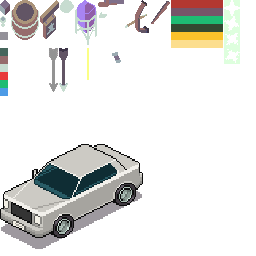
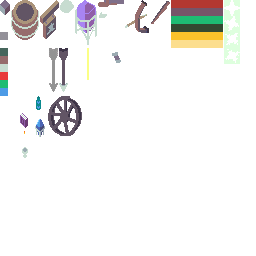
0.6.714

diff --git a/gamestream_flutter/lib/render/renderer_nodes.dart b/gamestream_flutter/lib/render/renderer_nodes.dart
@@ -64,14 +64,21 @@ class RendererNodes extends Renderer {
   static var nodeVisibility = GameNodes.nodesVisible;
 
   // GETTERS
-  // double get currentNodeRenderX => (currentNodeRow - currentNodeColumn) * Node_Size_Half;
   static double get currentNodeRenderY => GameConvert.rowColumnZToRenderY(row, column, currentNodeZ);
 
   static int get currentNodeShade => nodeShades[currentNodeIndex];
   static int get currentNodeColor => (currentNodeVisibilityOpaque ? GameLighting.values : GameLighting.values_transparent)[currentNodeShade];
+
+  static int getNodeColor(int index) {
+    if (index < 0) return GameLighting.values[4];
+    if (index >= GameNodes.nodesTotal) return GameLighting.values[4];
+    return (nodeVisibility[index] == Visibility.Opaque ? GameLighting.values : GameLighting
+        .values_transparent)[index];
+  }
+
+
   static int get currentNodeOrientation => nodeOrientations[currentNodeIndex];
   static int get currentNodeVisibility => nodeVisibility[currentNodeIndex];
-  // int get currentNodeWind => GameNodes.nodesWind[currentNodeIndex];
   static int get currentNodeWind => ServerState.windTypeAmbient.value;
 
   static bool get currentNodeVisible => currentNodeVisibility == Visibility.Invisible;
@@ -978,7 +985,7 @@ class RendererNodes extends Renderer {
   }){
     onscreenNodes++;
     final f = Engine.bufferIndex << 2;
-    bufferClr[Engine.bufferIndex] = currentNodeVisibility == Visibility.Opaque ? currentNodeColor : GameLighting.Transparent;
+    bufferClr[Engine.bufferIndex] = RendererNodes.currentNodeColor;
     bufferSrc[f] = srcX;
     bufferSrc[f + 1] = srcY;
     bufferSrc[f + 2] = srcX + GameConstants.Sprite_Width;
@@ -1011,7 +1018,7 @@ class RendererNodes extends Renderer {
   }
 
   static int getRenderLayerColor(int layers) =>
-      GameLighting.values[getRenderLayerShade(layers)];
+      getNodeColor(layers);
 
   static int getRenderLayerShade(int layers){
     final index = currentNodeIndex + (layers * GameNodes.nodesArea);

diff --git a/bleed-server/lib/src/game_types/game_survival.dart b/bleed-server/lib/src/game_types/game_survival.dart
@@ -95,7 +95,7 @@ class GameSurvival extends Game {
     }
   }
 
-  void spawnRandomGameObjectAtPosition(Position3 value){
+  void spawnRandomGameObjectAtPosition(Position3 value) {
     final itemType = getRandomItemType();
     if (itemType == ItemType.Empty) return;
     spawnGameObjectItemAtPosition(
@@ -112,7 +112,7 @@ class GameSurvival extends Game {
   }
 
   @override
-  void onPlayerInteractedWithGameObject(Player player, GameObject gameObject){
+  void onPlayerInteractedWithGameObject(Player player, GameObject gameObject) {
     player.setStoreItems(const [
         ItemType.Weapon_Thrown_Grenade,
         ItemType.Weapon_Handgun_Flint_Lock_Old,
@@ -131,8 +131,8 @@ class GameSurvival extends Game {
 
   @override
   void customOnHitApplied(Character src, Collider target) {
-     if (target is GameObject){
-        if (target.type == ItemType.GameObjects_Barrel){
+     if (target is GameObject) {
+        if (target.type == ItemType.GameObjects_Barrel) {
            deactivateGameObject(target);
            spawnRandomGameObjectAtPosition(target);
            final x = target.x;
@@ -142,6 +142,7 @@ class GameSurvival extends Game {
                spawnGameObject(x: x, y: y, z: z, type: ItemType.GameObjects_Barrel)
                 ..physical = true
                 ..collidable = true
+                ..team = TeamType.Alone
                 ..moveOnCollision = false;
            });
         }

diff --git a/gamestream_flutter/lib/game_atlas.dart b/gamestream_flutter/lib/game_atlas.dart
@@ -6,6 +6,7 @@ class AtlasItems {
   static double getSrcX(int itemType) => const <int, double> {
       ItemType.GameObjects_Car: 0,
       ItemType.GameObjects_Crystal: 75,
+      ItemType.GameObjects_Candle: 23,
       ItemType.GameObjects_Barrel: 11,
       ItemType.GameObjects_Cup: 0,
       ItemType.GameObjects_Tavern_Sign: 40,
@@ -68,6 +69,7 @@ class AtlasItems {
   static double getSrcY(int itemType) => const <int, double> {
     ItemType.GameObjects_Car: 144,
     ItemType.GameObjects_Crystal: 0,
+    ItemType.GameObjects_Candle: 131,
     ItemType.GameObjects_Barrel: 0,
     ItemType.GameObjects_Cup: 0,
     ItemType.GameObjects_Tavern_Sign: 0,
@@ -126,6 +128,7 @@ class AtlasItems {
     ItemType.GameObjects_Barrel: 28,
     ItemType.GameObjects_Cup: 6,
     ItemType.GameObjects_Tavern_Sign: 19,
+    ItemType.GameObjects_Candle: 3,
     ItemType.GameObjects_Grenade: 8,
     ItemType.Weapon_Rifle_Sniper: 48,
     ItemType.Weapon_Flamethrower: 64,
@@ -137,6 +140,7 @@ class AtlasItems {
     ItemType.GameObjects_Car: 105,
     ItemType.GameObjects_Crystal: 45,
     ItemType.GameObjects_Barrel: 40,
+    ItemType.GameObjects_Candle: 10,
     ItemType.GameObjects_Cup: 11,
     ItemType.GameObjects_Tavern_Sign: 39,
     ItemType.GameObjects_Grenade: 8,

diff --git a/gamestream_flutter/lib/src/editor/src/editor_ui.dart b/gamestream_flutter/lib/src/editor/src/editor_ui.dart
@@ -371,7 +371,8 @@ class EditorUI {
                   action: () {
                     GameNetwork.sendClientRequestEdit(
                         EditRequest.Spawn_Zombie,
-                        GameEditor.nodeSelectedIndex.value);
+                        GameEditor.nodeSelectedIndex.value,
+                    );
                   }),
               Column(
                 mainAxisAlignment: MainAxisAlignment.start,

diff --git a/gamestream_flutter/lib/game_lighting.dart b/gamestream_flutter/lib/game_lighting.dart
@@ -83,7 +83,8 @@ class GameLighting {
         linerInterpolation(start_hue, end_hue, t),
         linerInterpolation(start_saturation, end_saturation, t),
         linerInterpolation(start_value, end_value, t),
-        linerInterpolation(start_alpha, end_alpha, t) * 0.5,
+        // linerInterpolation(0.5, end_alpha, t),
+        0.5,
       );
     }
   }

diff --git a/bleed-common/lib/src/item_type.dart b/bleed-common/lib/src/item_type.dart
@@ -635,13 +635,6 @@ class ItemType {
   static const GameObjectTypes = [
      GameObjects_Barrel,
      GameObjects_Tavern_Sign,
-     GameObjects_Candle,
-     GameObjects_Bottle,
-     GameObjects_Wheel,
-     GameObjects_Cup,
-     GameObjects_Lantern_Red,
-     GameObjects_Book_Purple,
-     GameObjects_Car,
   ];
 }
 

diff --git a/bleed-server/lib/common/src/item_type.dart b/bleed-server/lib/common/src/item_type.dart
@@ -635,13 +635,6 @@ class ItemType {
   static const GameObjectTypes = [
      GameObjects_Barrel,
      GameObjects_Tavern_Sign,
-     GameObjects_Candle,
-     GameObjects_Bottle,
-     GameObjects_Wheel,
-     GameObjects_Cup,
-     GameObjects_Lantern_Red,
-     GameObjects_Book_Purple,
-     GameObjects_Car,
   ];
 }
 

diff --git a/bleed-server/lib/src/classes/src/gameobject.dart b/bleed-server/lib/src/classes/src/gameobject.dart
@@ -4,8 +4,6 @@ class GameObject extends Collider {
   var active = true;
   var _type = 0;
   var quantity = 0;
-  /// used to deactivate object
-  // var timer = 0;
   var interactable = false;
 
   int get type => _type;

diff --git a/bleed-common/lib/src/version.dart b/bleed-common/lib/src/version.dart
@@ -1,4 +1,4 @@
-const version = '0.6.713';
+const version = '0.6.714';
 
 
 

diff --git a/bleed-server/lib/common/src/version.dart b/bleed-server/lib/common/src/version.dart
@@ -1,4 +1,4 @@
-const version = '0.6.713';
+const version = '0.6.714';
 
 
 

diff --git a/gamestream_flutter/README.md b/gamestream_flutter/README.md
@@ -75,6 +75,7 @@ ctrl + w:   minimal mode
 [ ] fix physics characters teleport through walls on struck
 [ ] fix render color near midnight
 [ ] fix render visibility algorithm
+[ ] fix node opacity during day time
 [ ] feature survival random treasure spawns
 [ ] spawn boss characters
 [ ] street lamp
@@ -93,14 +94,14 @@ ctrl + w:   minimal mode
 [ ] design scene suburbia
 [ ] cupboards with loot
 [ ] destroyable crates etc
-[ ] projectiles can hit barrels
+
+02.01.2023
+[x] interactable node type vending machine
+[x] projectiles can hit barrels
 [x] vending trade machine
 [x] fix detect vendors which aren't the top
 [x] minimap icon vendor
 [x] killing enemies drop items
-
-02.01.2023
-[x] interactable node type vending machine
 
 01.01.2023
 [x] survival mode enemies drop random ammunition on killed
